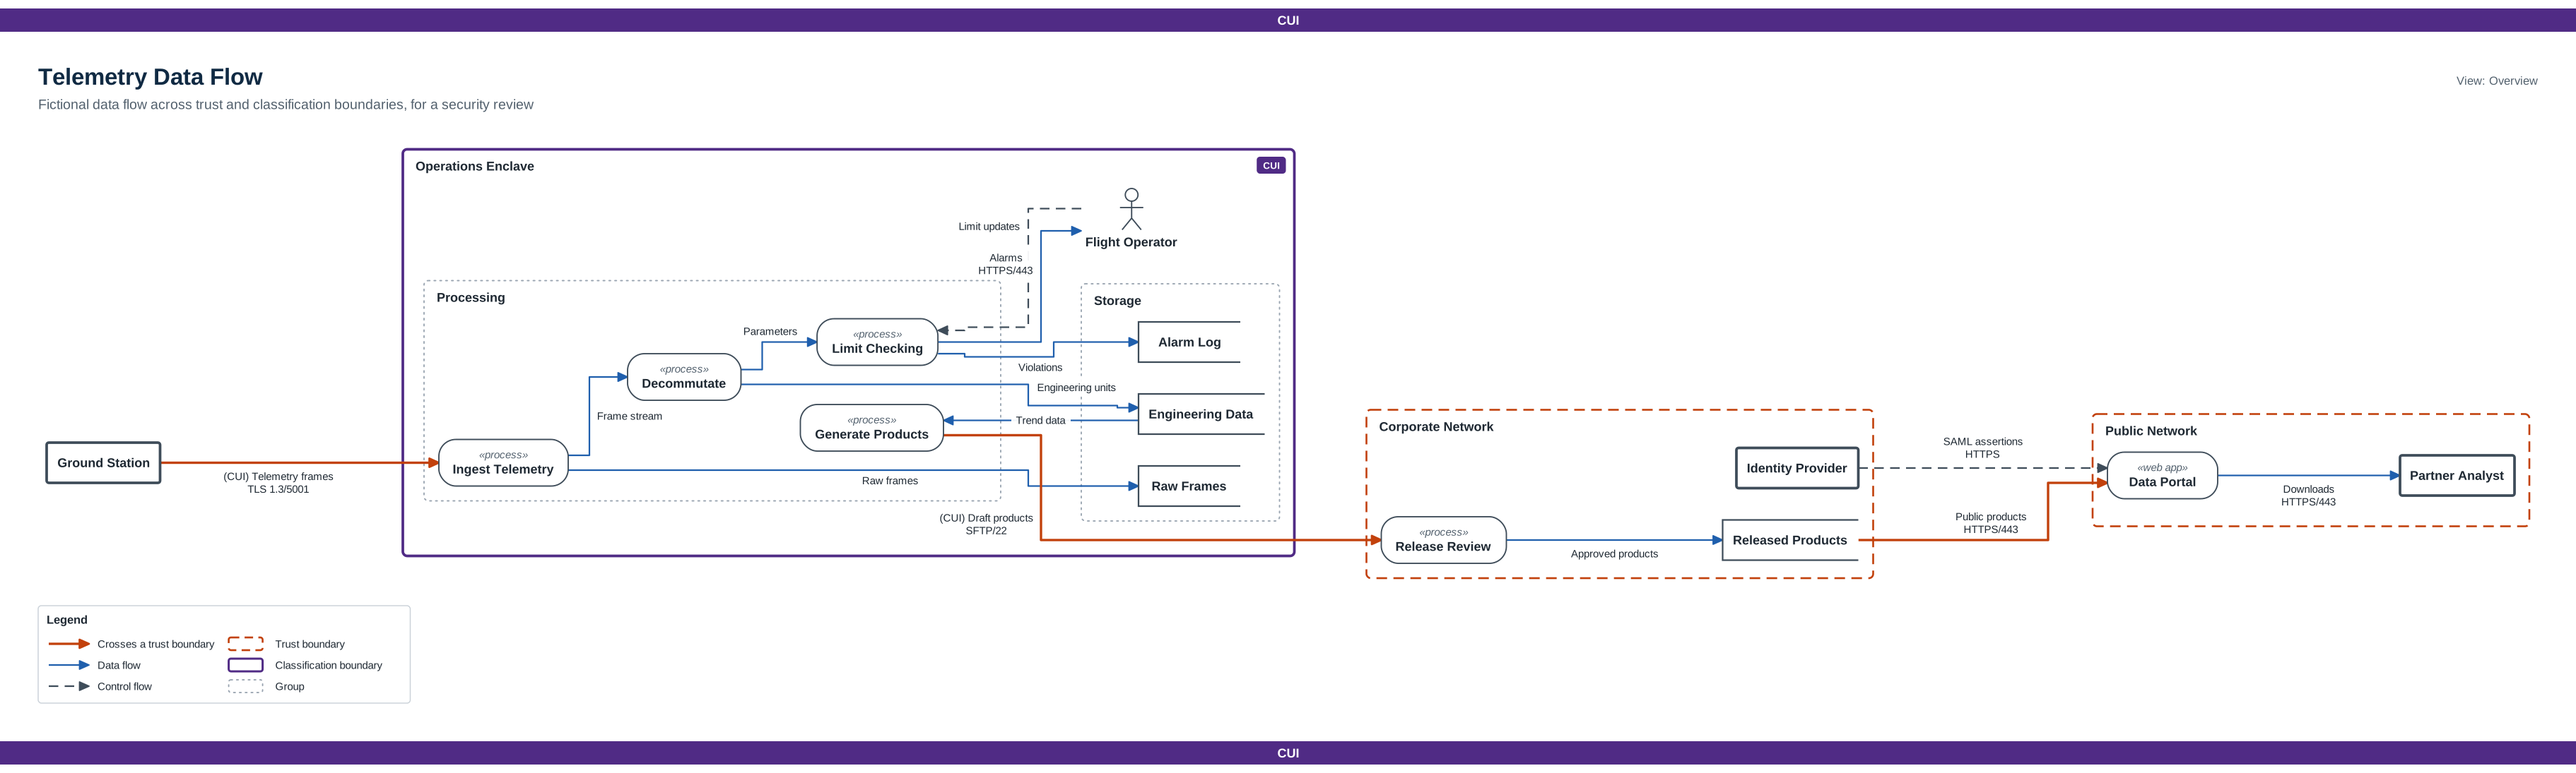
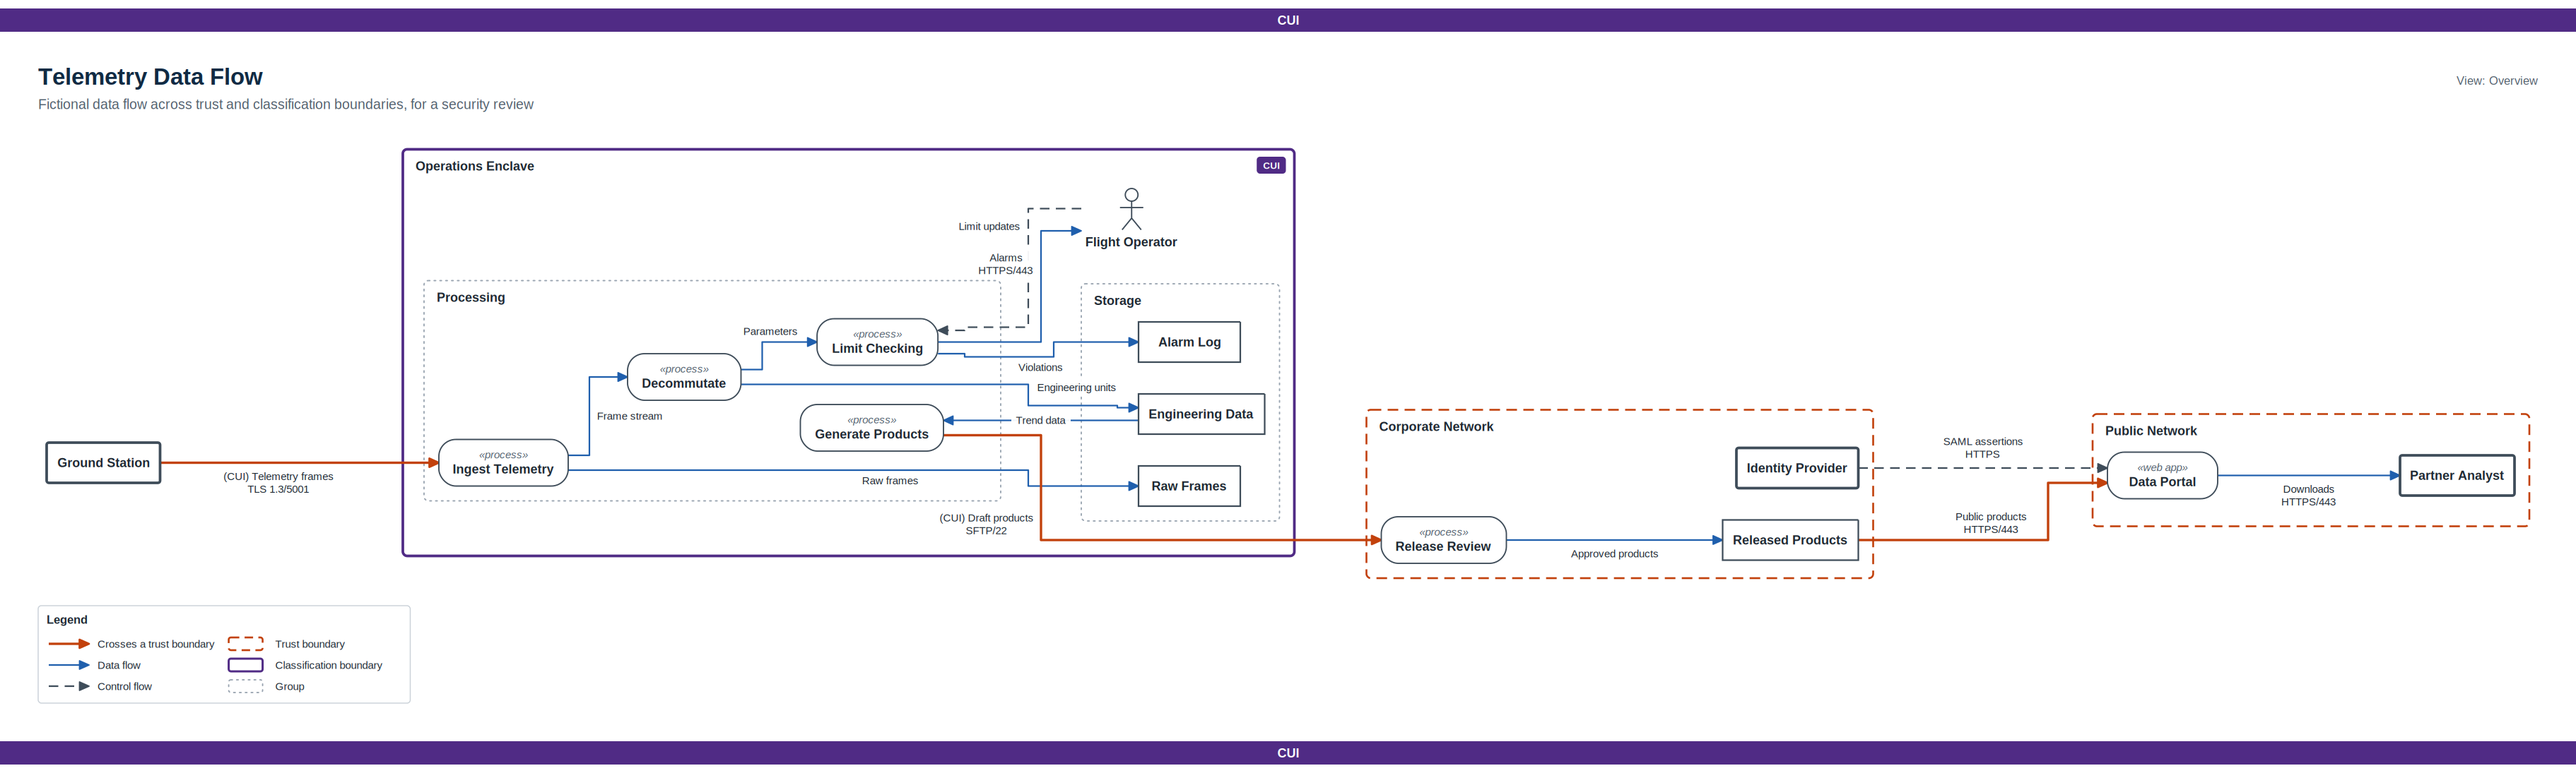
Close the store shape: draw the right side in both renderers
The store shape was drawn open on the right (a partialRectangle with right=0 in drawio.py, and the matching three-sided path in svg.py), so data-store blocks read as clipped in previews, PDFs and draw.io alike. Both renderers now draw all four sides, and the telemetry dataflow example is regenerated with the fixed code.

Human-Curated, AI-Enabled (HCAE)

diff --git a/scripts/tad/svg.py b/scripts/tad/svg.py
@@ -162,7 +162,7 @@ def _node(n, th):
                  f'stroke-width="{sw}"/>')
     elif sh == "store":
         o.append(f'<rect x="{x}" y="{y}" width="{w}" height="{h}" fill="{fill}" stroke="none"/>')
-        o.append(f'<path d="M{x + w},{y} H{x} V{y + h} H{x + w}" fill="none" stroke="{stroke}" stroke-width="1.5"/>')
+        o.append(f'<path d="M{x + w},{y} H{x} V{y + h} H{x + w} V{y}" fill="none" stroke="{stroke}" stroke-width="1.5"/>')
     elif sh == "actor":
         cx = x + w / 2
         o.append(f'<circle cx="{cx}" cy="{y + 7}" r="6" fill="{fill}" stroke="{stroke}" stroke-width="{sw}"/>')

diff --git a/scripts/tad/drawio.py b/scripts/tad/drawio.py
@@ -260,7 +260,7 @@ def _node_style(n, th):
     elif sh == "external":
         base.update(rounded=0, strokeWidth=2.5)
     elif sh == "store":
-        return dict({"shape": "partialRectangle", "right": 0, "top": 1, "bottom": 1, "left": 1},
+        return dict({"shape": "partialRectangle", "right": 1, "top": 1, "bottom": 1, "left": 1},
                     **dict(base, strokeWidth=1.5))
     elif sh == "cylinder":
         return dict({"shape": "cylinder3", "boundedLbl": 1, "backgroundOutline": 1, "size": 7}, **base)
